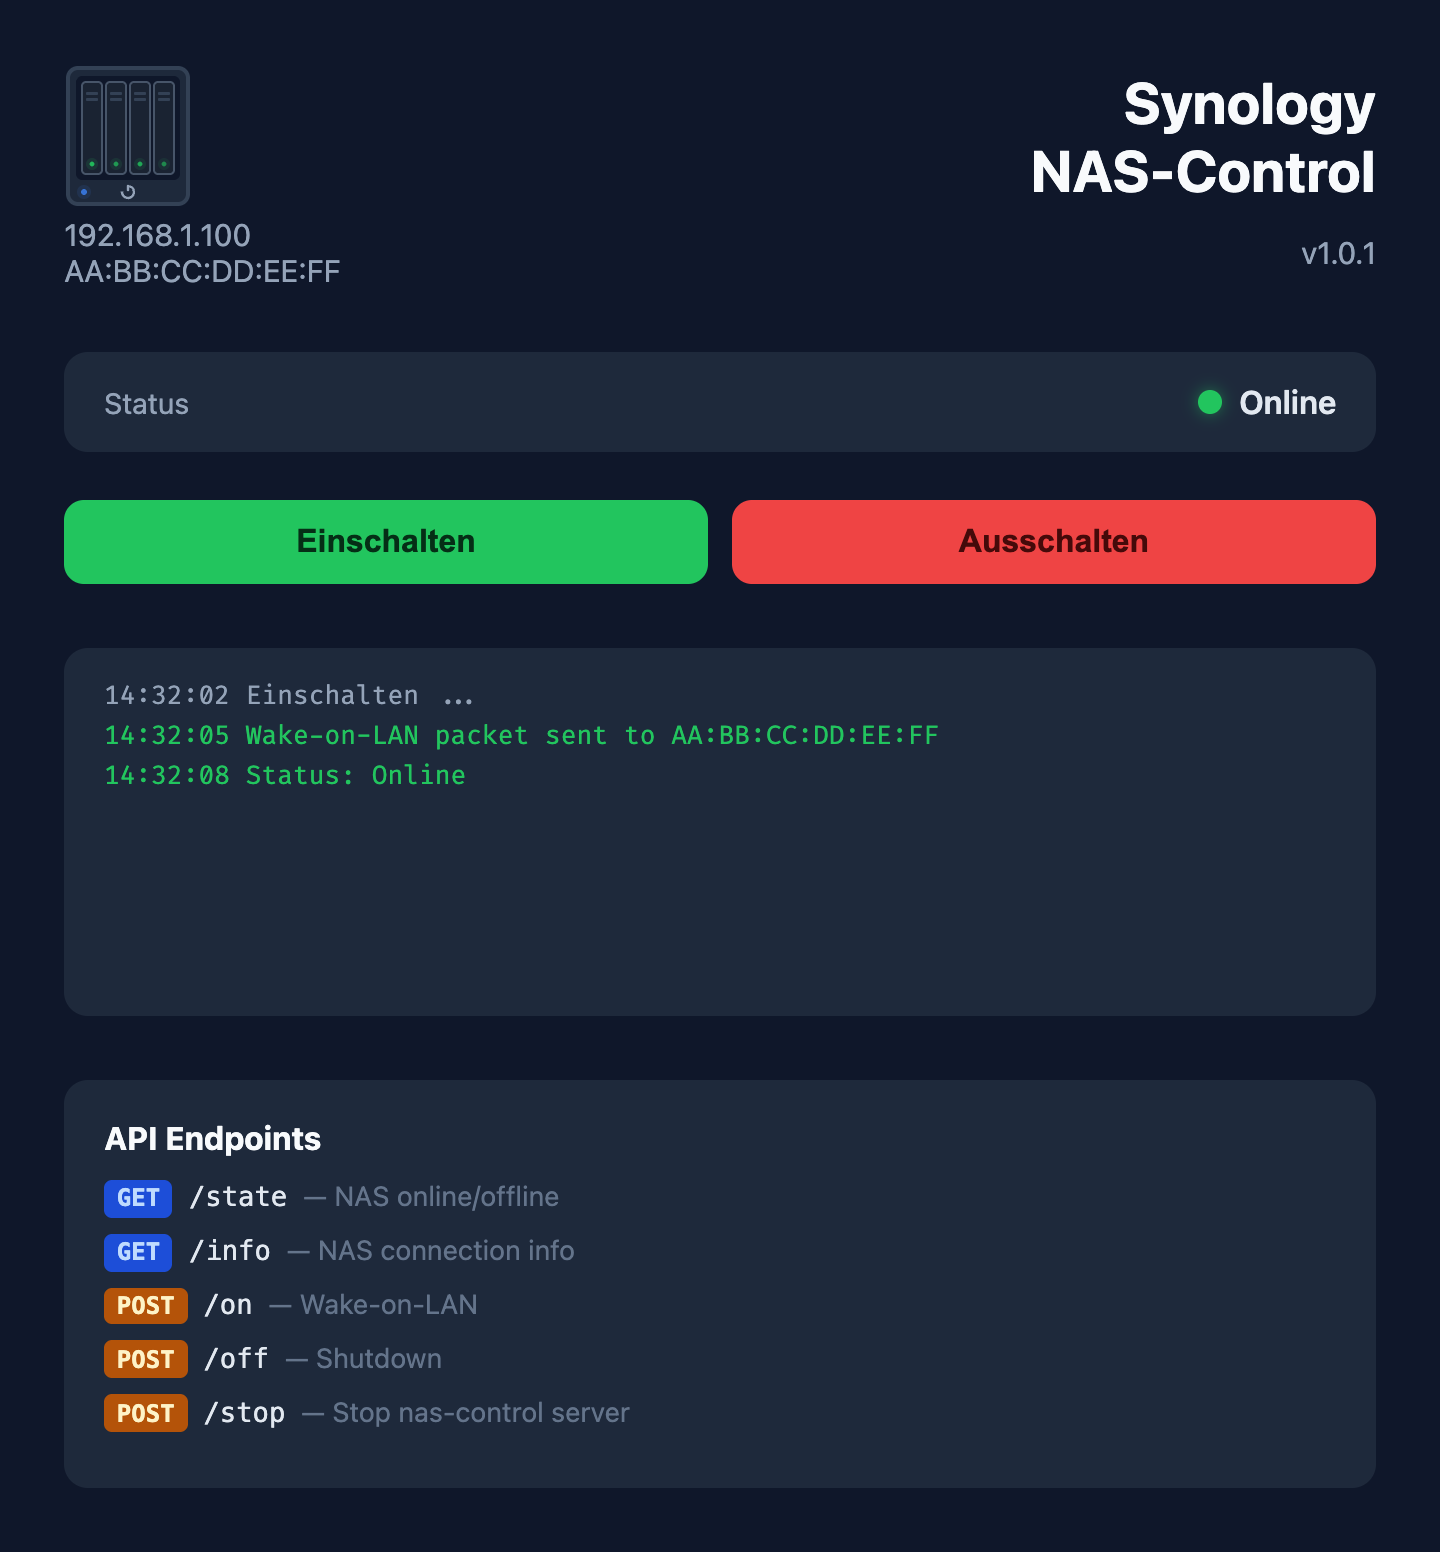
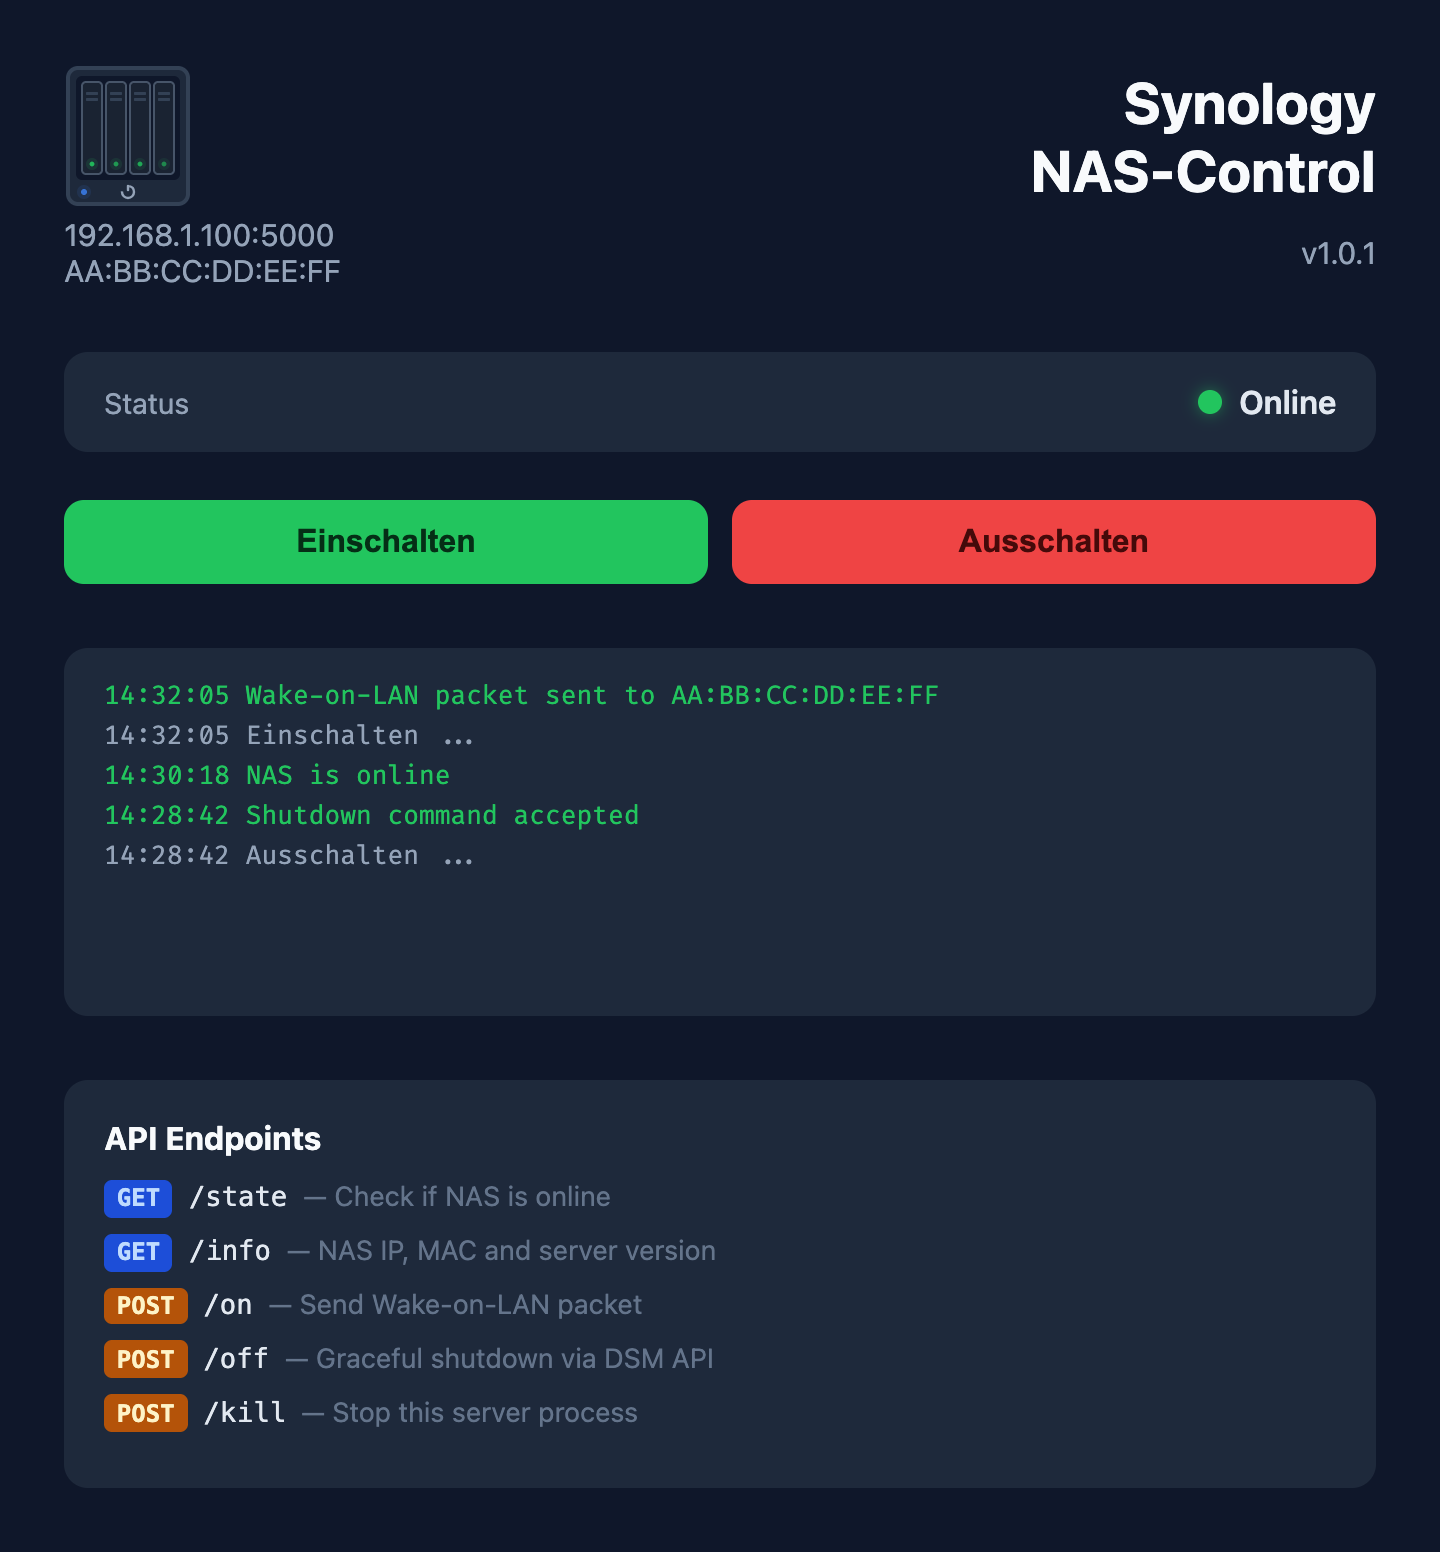
Update screenshot with dummy data and fix /kill endpoint description

diff --git a/README.md b/README.md
@@ -88,7 +88,7 @@ Use this user's credentials in your `config.yaml`.
 | GET    | `/state` | Online/offline status (JSON)   |
 | POST   | `/on`    | Send Wake-on-LAN magic packet  |
 | POST   | `/off`   | Shut down via Synology DSM API |
-| POST   | `/kill`  | Stop the nas-control server    |
+| POST   | `/kill`  | Kill the nas-control server process |
 
 All endpoints return JSON:
 
